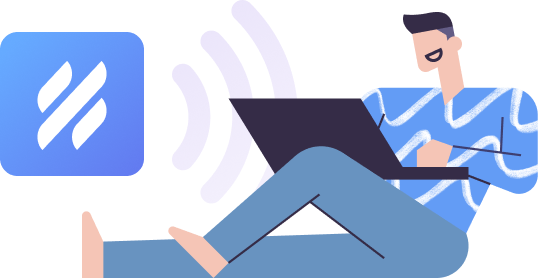
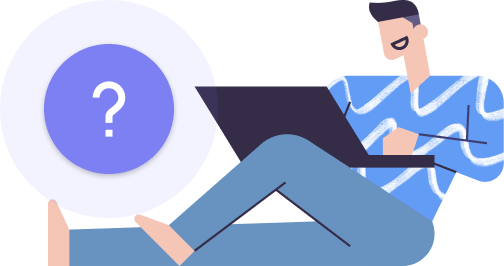
Finalize new design Help And Feedback design, fix MenuPanel Console bug

diff --git a/src/components/MenuPanel/MenuPanel.js b/src/components/MenuPanel/MenuPanel.js
@@ -89,6 +89,7 @@ class MenuPanel extends React.PureComponent {
 
   render() {
     const {
+      activeInstanceId,
       appInstanceGroups,
       daoAddress,
       daoStatus,
@@ -97,7 +98,12 @@ class MenuPanel extends React.PureComponent {
     const { systemAppsOpened, systemAppsToggled } = this.state
     const appGroups = this.getRenderableAppGroups(appInstanceGroups)
     const menuApps = [APP_HOME, appGroups]
-    const systemApps = [APP_PERMISSIONS, APP_APPS_CENTER, APP_ORGANIZATION]
+    const systemApps = [
+      APP_PERMISSIONS,
+      APP_APPS_CENTER,
+      APP_ORGANIZATION,
+      APP_CONSOLE,
+    ]
 
     console.log(window.location)
     return (
@@ -197,33 +203,38 @@ class MenuPanel extends React.PureComponent {
                         ),
                       }}
                     >
-                      {systemApps.map(app => this.renderAppGroup(app))}
-                    </AnimDiv>
-                  </div>
-                  <div>
-                    <ConsoleOptOutContext.Consumer>
-                      {({ optedOut }) =>
-                        !optedOut ? (
-                          this.renderAppGroup(APP_CONSOLE)
+                      {systemApps.map(app =>
+                        app.appId === 'console' ? (
+                          <div key={app.appId}>
+                            <ConsoleOptOutContext.Consumer>
+                              {({ consoleHidden }) =>
+                                !consoleHidden ? (
+                                  this.renderAppGroup(app)
+                                ) : (
+                                  <Spring
+                                    config={springs.smooth}
+                                    from={{ opacity: 0 }}
+                                    to={{
+                                      opacity:
+                                        activeInstanceId === 'console' &&
+                                        consoleHidden,
+                                    }}
+                                  >
+                                    {props => (
+                                      <div style={props} key={app.appId}>
+                                        {this.renderAppGroup(app)}
+                                      </div>
+                                    )}
+                                  </Spring>
+                                )
+                              }
+                            </ConsoleOptOutContext.Consumer>
+                          </div>
                         ) : (
-                          <Spring
-                            config={springs.smooth}
-                            from={{ opacity: 0 }}
-                            to={{
-                              opacity:
-                                window.location.hash.includes('console') &&
-                                optedOut,
-                            }}
-                          >
-                            {props => (
-                              <div style={props}>
-                                {this.renderAppGroup(APP_CONSOLE)}
-                              </div>
-                            )}
-                          </Spring>
+                          this.renderAppGroup(app)
                         )
-                      }
-                    </ConsoleOptOutContext.Consumer>
+                      )}
+                    </AnimDiv>
                   </div>
                 </div>
               )}

diff --git a/src/components/GlobalPreferences/HelpAndFeedback/HelpAndFeedback.js b/src/components/GlobalPreferences/HelpAndFeedback/HelpAndFeedback.js
@@ -9,10 +9,7 @@ import { getAppPath } from '../../../routing'
 function HelpAndFeedback({ historyPush, locator, onClose }) {
   const theme = useTheme()
   const { optedOut, setOptedOut } = useHelpScout()
-  const {
-    optedOut: optedOutFromConsole,
-    setOptedOut: setOptedOutFromConsole,
-  } = useConsole()
+  const { consoleHidden, setConsoleHidden } = useConsole()
 
   const handleOptOutChange = useCallback(() => setOptedOut(!optedOut), [
     setOptedOut,
@@ -20,8 +17,8 @@ function HelpAndFeedback({ historyPush, locator, onClose }) {
   ])
 
   const handleOptOutConsoleChange = useCallback(
-    () => setOptedOutFromConsole(!optedOutFromConsole),
-    [optedOutFromConsole, setOptedOutFromConsole]
+    () => setConsoleHidden(!consoleHidden),
+    [consoleHidden, setConsoleHidden]
   )
 
   const handleConsoleLinkClick = useCallback(() => {
@@ -43,7 +40,7 @@ function HelpAndFeedback({ historyPush, locator, onClose }) {
           css={`
             display: block;
             margin: 0 auto;
-            margin-bottom: ${5 * GU}px;
+            margin-bottom: ${6 * GU}px;
             width: 300px;
             height: 156px;
           `}
@@ -64,9 +61,9 @@ function HelpAndFeedback({ historyPush, locator, onClose }) {
             <Switch onChange={handleOptOutChange} checked={!optedOut} />
             <span
               css={`
-                color: ${theme.surfaceContentSecondary};
+                color: ${theme.surfaceContent};
                 padding-left: ${1.5 * GU}px;
-                ${textStyle('title4')}
+                ${textStyle('body2')}
               `}
             >
               Allow Help Scout feedback module
@@ -97,14 +94,14 @@ function HelpAndFeedback({ historyPush, locator, onClose }) {
           >
             <Switch
               onChange={handleOptOutConsoleChange}
-              checked={!optedOutFromConsole}
+              checked={!consoleHidden}
             />
             <span
               css={`
-                color: ${theme.surfaceContentSecondary};
+                color: ${theme.surfaceContent};
                 padding-left: ${1.5 * GU}px;
                 align-items: center;
-                ${textStyle('title4')}
+                ${textStyle('body2')}
               `}
             >
               Display the <Link onClick={handleConsoleLinkClick}>console</Link>{' '}

diff --git a/src/apps/Console/useConsole.js b/src/apps/Console/useConsole.js
@@ -7,16 +7,16 @@ export const CONSOLE_COMMAND_HISTORY_KEY = 'CONSOLE_COMMAND_HISTORY'
 export const ConsoleOptOutContext = React.createContext()
 
 function ConsoleOptOutProvider({ children }) {
-  const [optedOut, setOptedOut] = useState(
+  const [consoleHidden, setConsoleHidden] = useState(
     localStorage.getItem(CONSOLE_OPTOUT_KEY) === 'true'
   )
 
   useEffect(() => {
-    localStorage.setItem(CONSOLE_OPTOUT_KEY, optedOut ? 'true' : 'false')
-  }, [optedOut])
+    localStorage.setItem(CONSOLE_OPTOUT_KEY, consoleHidden ? 'true' : 'false')
+  }, [consoleHidden])
 
   return (
-    <ConsoleOptOutContext.Provider value={{ optedOut, setOptedOut }}>
+    <ConsoleOptOutContext.Provider value={{ consoleHidden, setConsoleHidden }}>
       {children}
     </ConsoleOptOutContext.Provider>
   )
